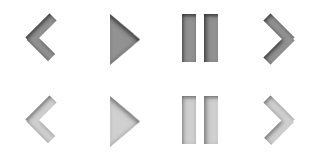
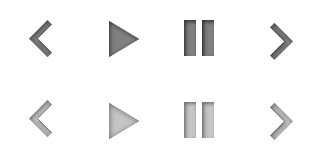
add Silver skin support

diff --git a/css/billboard.css b/css/billboard.css
@@ -152,6 +152,17 @@
 	right: 0px;
 }
 
+/* uBillboard General Retina Support */
+@media only screen and (-webkit-min-device-pixel-ratio:2) {
+	.uds-thumbnails-shadow-left {
+		background-image: url(../images/thumb-shadow-left@2x.png);
+	}
+	
+	.uds-thumbnails-shadow-right {
+		background-image: url(../images/thumb-shadow-right@2x.png);
+	}
+}
+
 	/* Paginator */
 	.uds-bb-paginator {
 		position: absolute;
@@ -404,65 +415,53 @@
 	
 	/* Silver Skin */
 	
-	.uds-bb-paginator.silver.inside .uds-bb-prev {
+	.uds-bb-paginator.silver .uds-bb-prev {
 		width: 40px;
 		height: 40px;
 		position: absolute;
-		left: 0px;
-		background: url(../images/skin-silver/paginator-inside.png) repeat-x;
+		background: url(../images/skin-silver/bg.png) repeat-x;
 		box-shadow: 0px 0px 2px #666;
-		-webkit-border-bottom-right-radius: 10px;
-		-webkit-border-top-right-radius: 10px;
+	}
+	
+	.uds-bb-paginator.silver.inside .uds-bb-prev {
+		left: 0px;
 		-moz-border-top-right-radius: 10px;
 		-moz-border-bottom-right-radius: 10px;
 		border-bottom-right-radius: 10px;
 		border-top-right-radius: 10px;
 	}
 	
-	.uds-bb-paginator.silver.inside .uds-bb-prev span {
-		background: url(../images/skin-silver/prev.png);
+	.uds-bb-paginator.silver .uds-bb-prev span {
+		background: url(../images/skin-silver/buttons.png) 0px 0px;
 		width: 40px;
 		height: 40px;
 		position: absolute;
 		left: 0px;
 	}
 	
-	.uds-bb-paginator.silver.inside .uds-bb-prev span:hover, .uds-bb-paginator.silver.outside .uds-bb-prev span:hover {
-		background: url(../images/skin-silver/prev.png) 0px 40px;
+	.uds-bb-paginator.silver .uds-bb-prev span:hover,
+	.uds-bb-paginator.silver .uds-bb-prev span:active {
+		background-position: 0px -40px;
 	}
 	
 	.uds-bb-paginator.silver.outside .uds-bb-prev {
-		width: 40px;
-		height: 40px;
-		position: absolute;
 		left: -40px;
-		background: url(../images/skin-silver/paginator-inside.png) repeat-x;
-		box-shadow: 0px 0px 2px #666;
-		-webkit-border-bottom-left-radius: 10px;
-		-webkit-border-top-left-radius: 10px;
 		-moz-border-top-left-radius: 10px;
 		-moz-border-bottom-left-radius: 10px;
 		border-bottom-left-radius: 10px;
 		border-top-left-riadus: 10px;
 	}
 	
-	.uds-bb-paginator.silver.outside .uds-bb-prev span {
-		background: url(../images/skin-silver/prev.png);
+	.uds-bb-paginator.silver .uds-bb-next {
 		width: 40px;
 		height: 40px;
 		position: absolute;
-		left: 0px;
+		background: url(../images/skin-silver/bg.png) repeat-x;
+		box-shadow: 0px 0px 2px #666;
 	}
 	
 	.uds-bb-paginator.silver.inside .uds-bb-next {
-		width: 40px;
-		height: 40px;
-		position: absolute;
 		right: 0px;
-		background: url(../images/skin-silver/paginator-inside.png) repeat-x;
-		box-shadow: 0px 0px 2px #666;
-		-webkit-border-bottom-left-radius: 10px;
-		-webkit-border-top-left-radius: 10px;
 		-moz-border-top-left-radius: 10px;
 		-moz-border-bottom-left-radius: 10px;
 		border-bottom-left-radius: 10px;
@@ -470,72 +469,50 @@
 	}
 	
 	.uds-bb-paginator.silver.outside .uds-bb-next {
-		width: 40px;
-		height: 40px;
-		position: absolute;
 		right: -40px;
-		background: url(../images/skin-silver/paginator-inside.png) repeat-x;
-		box-shadow: 0px 0px 2px #666;
-		-webkit-border-bottom-right-radius: 10px;
-		-webkit-border-top-right-radius: 10px;
 		-moz-border-top-right-radius: 10px;
 		-moz-border-bottom-right-radius: 10px;
 		border-top-right-radius: 10px;
 		border-bottom-right-radius: 10px;
 	}
 	
-	.uds-bb-paginator.silver.inside .uds-bb-next span {
-		background: url(../images/skin-silver/next.png);
+	.uds-bb-paginator.silver .uds-bb-next span {
+		background: url(../images/skin-silver/buttons.png) -120px 0px;
 		width: 40px;
 		height: 40px;
 		position: absolute;
 		right: 0px;
 	}
 	
-	.uds-bb-paginator.silver.outside .uds-bb-next span {
-		background: url(../images/skin-silver/next.png);
-		width: 40px;
-		height: 40px;
-		position: absolute;
-		right: 0px;
+	.uds-bb-paginator.silver .uds-bb-next span:hover,
+	.uds-bb-paginator.silver .uds-bb-next span:active {
+		background-position: -120px -40px;
 	}
 	
-	
-	.uds-bb-paginator.silver.inside .uds-bb-next span:hover, .uds-bb-paginator.silver.outside .uds-bb-next span:hover {
-		background: url(../images/skin-silver/next.png) 0px 40px;
-	}
-	
-	.uds-bb-paginator.silver.inside .uds-bb-position-indicator-bullets-container {
+	.uds-bb-paginator.silver .uds-bb-position-indicator-bullets-container {
 		height: 22px;
 		float: left;
-		background: url(../images/skin-silver/paginator-inside.png) repeat-x;
-		padding: 9px 10px;;
+		background: url(../images/skin-silver/bg.png) repeat-x;
+		padding: 9px 10px;
 		position: absolute;
-		bottom: 0px;
-		-webkit-border-top-right-radius: 10px;
-		-webkit-border-top-left-radius: 10px;
-		-moz-border-top-right-radius: 10px;
-		-moz-border-top-left-radius: 10px;
-		border-top-left-radius: 10px;
-		border-top-right-radius: 10px;
 		box-shadow: 0px 0px 2px #666;
 		z-index: 5;
 	}
 	
+	.uds-bb-paginator.silver.inside .uds-bb-position-indicator-bullets-container {
+		bottom: 0px;
+		-moz-border-top-right-radius: 10px;
+		-moz-border-top-left-radius: 10px;
+		border-top-left-radius: 10px;
+		border-top-right-radius: 10px;
+	}
+	
 	.uds-bb-paginator.silver.outside .uds-bb-position-indicator-bullets-container {
-		height: 22px;
-		float: left;
-		background: url(../images/skin-silver/paginator-inside.png) repeat-x;
-		padding: 9px 10px;;
-		position: absolute;
 		bottom: -40px;
-		-webkit-border-bottom-right-radius: 10px;
-		-webkit-border-bottom-left-radius: 10px;
 		-moz-border-bottom-right-radius: 10px;
 		-moz-border-bottom-left-radius: 10px;
 		border-bottom-left-radius: 10px;
 		border-bottom-right-radius: 10px;
-		box-shadow: 0px 0px 2px #666;
 	}
 	
 	.uds-bb-paginator.silver .uds-bb-position-indicator-bullets {
@@ -543,7 +520,7 @@
 	}
 	
 	.uds-bb-paginator.silver .uds-bb-bullet {
-		background: url(../images/skin-silver/bullet.png) no-repeat;
+		background: url(../images/skin-silver/bullets.png) no-repeat;
 		width: 14px;
 		height: 14px;
 		float: left;
@@ -551,22 +528,59 @@
 		cursor: pointer;
 	}
 	
-	.uds-bb-paginator.silver .uds-bb-bullet.active, .uds-bb-paginator.silver .uds-bb-bullet:hover  {
-		background: url(../images/skin-silver/bullet-active.png) no-repeat;
+	.uds-bb-paginator.silver .uds-bb-bullet:hover {
+		background-position: 0px -14px;
 	}
 	
-	.uds-bb-paginator.silver  .uds-bb-playpause {
-		background: url(../images/skin-silver/playpause.png) no-repeat;
-		width: 14px;
-		height: 14px;
+	.uds-bb-paginator.silver .uds-bb-bullet.active,
+	.uds-bb-paginator.silver .uds-bb-bullet:active {
+		background-position: 0px -28px;
+	}
+	
+	.uds-bb-paginator.silver .uds-bb-playpause {
+		background: url(../images/skin-silver/buttons.png) no-repeat;
+		width: 40px;
+		height: 40px;
 		float: left;
-		margin: 5px 0px 0px 0px;
+		margin: -9px 0px 0px 0px;
 	}
 	
-	.uds-bb-paginator.silver  .uds-bb-playpause:hover {
-		background: url(../images/skin-silver/playpause.png) 0px 14px;
+	.uds-bb-paginator.silver .uds-bb-playpause.pause {
+		background-position: -80px 0px;
 	}
 	
+	.uds-bb-paginator.silver .uds-bb-playpause.play {
+		background-position: -40px 0px;
+	}
+	
+	.uds-bb-paginator.silver .uds-bb-playpause.play:hover {
+		background-position: -40px -40px;
+	}
+	
+	.uds-bb-paginator.silver .uds-bb-playpause.pause:hover {
+		background-position: -80px -40px;
+	}
+	
+	@media only screen and (-webkit-min-device-pixel-ratio:2) {
+		.uds-bb-paginator.silver .uds-bb-prev,
+		.uds-bb-paginator.silver .uds-bb-next,
+		.uds-bb-paginator.silver .uds-bb-position-indicator-bullets-container {
+			background-image: url(../images/skin-silver/bg@2x.png);
+			background-size: 1px 40px;
+		}
+		
+		.uds-bb-paginator.silver .uds-bb-prev span,
+		.uds-bb-paginator.silver .uds-bb-next span,
+		.uds-bb-paginator.silver .uds-bb-playpause {
+			background-image: url(../images/skin-silver/buttons@2x.png);
+			background-size: 160px 80px;
+		}
+		
+		.uds-bb-paginator.silver .uds-bb-bullet {
+			background-image: url(../images/skin-silver/bullets@2x.png);
+			background-size: 14px 42px;
+		}
+	}
 	
 	/* uTube Skin */
 	
